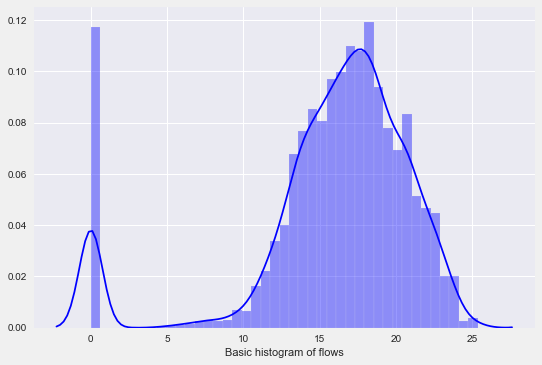
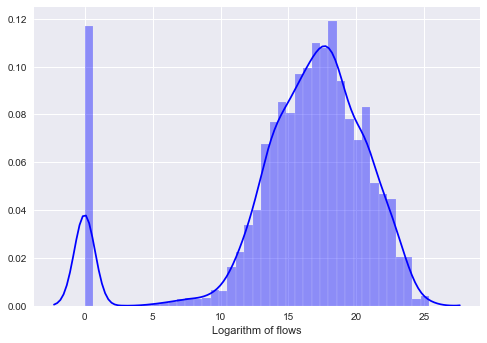
Correct  PPML added, PPML part added, NN adjusted
# Working version of PPML added
# NN adjusted to save non standardized values
# Desciption of one histogram changed
# Report  modified but fucked up, not compiled.

diff --git a/Neural_net/Neural_net_210219.py b/Neural_net/Neural_net_210219.py
@@ -52,8 +52,8 @@ plt.style.use("seaborn")
 init_notebook_mode(connected=True)
 
 # Path specifiation
-path = "/Users/miktus/Documents/PSE/Trade policy/Model/"
-# path = "C:/Repo/Trade/Trade-policy/"
+#path = "/Users/miktus/Documents/PSE/Trade policy/Model/"
+path = "C:/Repo/Trade/Trade-policy/"
 
 # Import data
 
@@ -117,6 +117,55 @@ data.drop(columns=['iso2_d', 'iso2_o'], inplace=True)
 
 data = data.query("rt3ISO == 'POL'")
 
+# Summary statistics table
+values = pd.DataFrame(data.nunique(0), columns=["count"])
+values["column"] = values.index
+keep = values["column"].loc[values["count"] > 1]
+data = data[data.columns.intersection(list(keep.append(pd.Series(["rt3ISO"]))))]
+values = pd.DataFrame(data.nunique(0), columns=["count"])
+values["column"] = values.index
+discrete = values["column"].loc[values["count"] <= 10]
+continues = values["column"].loc[values["count"] > 10]
+continues = pd.DataFrame(data[data.columns.intersection(list(continues.drop(["pt3ISO", "yr"])))].describe(include='all').transpose())
+continues["Description"] = ["Total value of trade between reporting and partner countries",
+                            "Weighted bilateral distance between reporting and partner countries in kilometer (population weighted)",
+                            "Population of reporting country, total in million",
+                            "Population of partner country, total in million",
+                            "GDP of reporting country (current US$)",
+                            "GDP of partner country (current US$)",
+                            "GDP per capita of reporting country (current US$)",
+                            "GDP per capita of partner country (current US$)",
+                            "Area of partner country in sq. kilometers",
+                            "Time difference between reporting and partner countries, in number of hours. For countries which stretch over more than  one  time  zone,  the  respective  time  zone  is generated via the mean of all its time zones (for instance: Russia, Canada, USA)",
+                            "Religious proximity (Disdier and Mayer, 2007) is an index calculated by adding the productsof the shares of Catholics, Protestants and Muslims in the exporting and importing countries. It is bounded between 0 and 1, and is maximum if the country pair has a religion which (1) comprises a vast majority of the population, and (2) is the same in both countries. Source of religion shares: LaPorta, Lopez-de-Silanes, Shleiferand Vishny(1999), completed with the CIA world factbook"]
+
+# Final table for continues variables
+pd.DataFrame(continues[continues.columns.drop(["count"])]).style.format({'total_amt_usd_pct_diff': "{:.2%}"})
+
+discrete = pd.DataFrame(data[data.columns.intersection(list(discrete.append(pd.Series(["yr", "pt3ISO"]))))]).apply(lambda r: pd.Series({'Count': r.nunique(), 'Most Common Value': str(mode(r)[0]).replace("[", "").replace("]", "").replace(".", "")})).transpose()
+discrete["Description"] = ["Year",
+                           "Standard ISO code for reporting country (three letters)",
+                           "Standard ISO code for partner country (three letters)",
+                           "Dummy for contiguity",
+                           "Dummy if parter country is current or former hegemon of origin",
+                           "Dummy for reporting and partner countries colonial relationship post 1945",
+                           "Dummy for reporting and partner countries ever in colonial relationship",
+                           "Dummy for reporting and partner countries ever in sibling relationship, i.e. two colonies of the same empire",
+                           "Dummy if reporting and partner countries share common legal origins before transition",
+                           "Dummy if reporting and partner countries share common legal origins after transition",
+                           "Dummy if common legal origin changed since transition",
+                           "Legal system of partner country before transition. This variable takes the values: “fr” for French, “ge” for German, “sc” for Scandinavian, “so” for Socialist and “uk” for British legal origin.",
+                           "Legal system of partner country after transition. This variable takes the values: “fr” for French, “ge” for German, “sc” for Scandinavian, “so” for Socialist and “uk” for British legal origin.",
+                           "Dummy if partner country is GATT/WTO member",
+                           "Dummy for Regional Trade Agreement",
+                           "Dummy for ACP country exporting to EC/EU member",
+                           "Dummy if origin is donator in Generalized System of Preferences (GSP)",
+                           "Report changes in Rose’s data on <gsp_o_d>. No gsp recorded in Rose; Data directly from Rose; Changes in data from Rose; Assumption that gsp continues after 1999",
+                           "Dummy if reporting country a member of the European Union",
+                           "Dummy if partner country a member of the European Union"]
+
+discrete.index
+
 # Numeric variables
 
 data_numeric = data._get_numeric_data()
@@ -172,7 +221,7 @@ if visualise_all:
 
 # Histogram of flows over the history
 
-hist_all = sns.distplot(np.log(data["Trade_value_total"] + 1), axlabel="Basic histogram of flows", color="blue")
+hist_all = sns.distplot(np.log(data["Trade_value_total"] + 1), axlabel="Logarithm of flows", color="blue")
 
 
 hist_all.figure.savefig('Histogram of flows over the history.png', bbox_inches="tight")
@@ -205,56 +254,20 @@ pairplot = sns.pairplot(data_pairplot, vars=["Trade_value_total", "distw", "gdp_
                         plot_kws=dict(s=50, edgecolor="blue", linewidth=1),  diag_kws=dict(shade=True,  color="blue"))
 pairplot.savefig('Pairplots.png', bbox_inches="tight")
 
+# Save copy of nostandardized dataset
+data_nonstandardized  = data
 
-# Summary statistics table
-values = pd.DataFrame(data.nunique(0), columns=["count"])
-values["column"] = values.index
-keep = values["column"].loc[values["count"] > 1]
-data = data[data.columns.intersection(list(keep.append(pd.Series(["rt3ISO"]))))]
-values = pd.DataFrame(data.nunique(0), columns=["count"])
-values["column"] = values.index
-discrete = values["column"].loc[values["count"] <= 10]
-continues = values["column"].loc[values["count"] > 10]
-continues = pd.DataFrame(data[data.columns.intersection(list(continues.drop(["pt3ISO", "yr"])))].describe(include='all').transpose())
-continues["Description"] = ["Total value of trade between reporting and partner countries",
-                            "Weighted bilateral distance between reporting and partner countries in kilometer (population weighted)",
-                            "Population of reporting country, total in million",
-                            "Population of partner country, total in million",
-                            "GDP of reporting country (current US$)",
-                            "GDP of partner country (current US$)",
-                            "GDP per capita of reporting country (current US$)",
-                            "GDP per capita of partner country (current US$)",
-                            "Area of partner country in sq. kilometers",
-                            "Time difference between reporting and partner countries, in number of hours. For countries which stretch over more than  one  time  zone,  the  respective  time  zone  is generated via the mean of all its time zones (for instance: Russia, Canada, USA)",
-                            "Religious proximity (Disdier and Mayer, 2007) is an index calculated by adding the productsof the shares of Catholics, Protestants and Muslims in the exporting and importing countries. It is bounded between 0 and 1, and is maximum if the country pair has a religion which (1) comprises a vast majority of the population, and (2) is the same in both countries. Source of religion shares: LaPorta, Lopez-de-Silanes, Shleiferand Vishny(1999), completed with the CIA world factbook"]
+data_PL_nonstd = data_nonstandardized.query("rt3ISO == 'POL'")
+# data_PL.to_csv("data_PL2.csv")
+data_PL_nonstd["year"] = data_PL_nonstd["yr"]
+data_PL_nonstd.drop('rt3ISO', axis=1, inplace=True)
 
-# Final table for continues variables
-pd.DataFrame(continues[continues.columns.drop(["count"])]).style.format({'total_amt_usd_pct_diff': "{:.2%}"})
+# One hot encoding
+data_PL_nonstd = pd.get_dummies(
+    data_PL_nonstd, columns=["year", "pt3ISO", "legold_d", "legnew_d", "flaggsp_o_d"],
+    prefix=["yr", "pt3ISO", "legold_d", "legnew_d", "flaggsp_o_d"])
 
-discrete = pd.DataFrame(data[data.columns.intersection(list(discrete.append(pd.Series(["yr", "pt3ISO"]))))]).apply(lambda r: pd.Series({'Count': r.nunique(), 'Most Common Value': str(mode(r)[0]).replace("[", "").replace("]", "").replace(".", "")})).transpose()
-discrete["Description"] = ["Year",
-                           "Standard ISO code for reporting country (three letters)",
-                           "Standard ISO code for partner country (three letters)",
-                           "Dummy for contiguity",
-                           "Dummy if parter country is current or former hegemon of origin",
-                           "Dummy for reporting and partner countries colonial relationship post 1945",
-                           "Dummy for reporting and partner countries ever in colonial relationship",
-                           "Dummy for reporting and partner countries ever in sibling relationship, i.e. two colonies of the same empire",
-                           "Dummy if reporting and partner countries share common legal origins before transition",
-                           "Dummy if reporting and partner countries share common legal origins after transition",
-                           "Dummy if common legal origin changed since transition",
-                           "Legal system of partner country before transition. This variable takes the values: “fr” for French, “ge” for German, “sc” for Scandinavian, “so” for Socialist and “uk” for British legal origin.",
-                           "Legal system of partner country after transition. This variable takes the values: “fr” for French, “ge” for German, “sc” for Scandinavian, “so” for Socialist and “uk” for British legal origin.",
-                           "Dummy if partner country is GATT/WTO member",
-                           "Dummy for Regional Trade Agreement",
-                           "Dummy for ACP country exporting to EC/EU member",
-                           "Dummy if origin is donator in Generalized System of Preferences (GSP)",
-                           "Report changes in Rose’s data on <gsp_o_d>. No gsp recorded in Rose; Data directly from Rose; Changes in data from Rose; Assumption that gsp continues after 1999",
-                           "Dummy if reporting country a member of the European Union",
-                           "Dummy if partner country a member of the European Union"]
-
-discrete.index
-
+data_PL_nonstd.to_csv("data_PL.csv")
 
 # Normalization
 minmax_normalized_df = pd.DataFrame(MinMaxScaler().fit_transform(data_numeric),
@@ -266,13 +279,12 @@ standardized_df = pd.DataFrame(StandardScaler().fit_transform(data_numeric), col
 ecdf_normalized_df = data_numeric.apply(
     lambda c: pd.Series(ECDF(c)(c), index=c.index))
 
-# Replace data by its standardized values
-
-data[list(ecdf_normalized_df.columns.values)] = ecdf_normalized_df
+# Continue with standardized data for neural network
+data[list(standardized_df.columns.values)] = standardized_df
 
 
 # Heatmap
-corr = ecdf_normalized_df.corr()
+corr = standardized_df.corr()
 heat = sns.heatmap(corr[(corr >= 0.3) | (corr <= -0.3)],
                    cmap='viridis', vmax=1.0, vmin=-1.0, linewidths=0.05,
                    annot=True, annot_kws={"size": 5}, square=True)
@@ -331,7 +343,7 @@ fig = dict(data=flow_directions, layout=layout)
 plot(fig, filename='Flows map')
 
 
-# Select only POL as rt3ISO (done twice but does not hurt)
+# Select only POL as rt3ISO
 data_PL = data.query("rt3ISO == 'POL'")
 # data_PL.to_csv("data_PL2.csv")
 data_PL["year"] = data_PL["yr"]
@@ -347,7 +359,6 @@ data_PL = pd.get_dummies(
 #    data_PL, columns=["year", "pt3ISO", "legold_o", "legold_d", "legnew_o", "legnew_d", "flaggsp_o_d", "flaggsp_d_d"],
 #    prefix=["yr", "pt3ISO", "legold_o", "legold_d", "legnew_o", "legnew_d", "flaggsp_o_d", "flaggsp_d_d"])
 
-data_PL.to_csv("data_PL.csv")
 # Splitting the data
 
 # train_size = 0.9

diff --git a/Report/Trade.tex b/Report/Trade.tex
@@ -148,10 +148,14 @@ The paper is organized as follows: the first chapter consists of the brief liter
 \chapter{Literature review}
 
 The traditional gravity model was developed in the 1960s to explain factory-to-consumer trade (\citet{tinbergen1962analysis}). The above-mentioned concept was at the heart of the first clear microfoundations of the gravity equation – the seminal \citet{anderson1979theoretical}, proposing a theoretical explanation of the gravity equation based on constant elasticity of substitution preferences of nations producing a single differentiated product. In parallel, the monopolistic competition versions were introduced (\citet{krugman1980scale}, \citet{bergstrand1985gravity}), followed by the work of \citet{anderson2003gravity}, expanding appropriate econometric techniques and introducing the microeconomic framework to the previously promoted monopolistic competition. Subsequent theoretical refinements have further focused on showing that the gravity equation can be derived from trade models with heterogeneous firms (\citet{helpman2008estimating}).
+\textcolor{red}{Modified and added part}
 
-Simultaneously, the estimation techniques were progressing, starting from the basic least square estimator and its correspondent panel data version, meaning the fixed effect estimator. The endogeneity issues guided to the establishment of instrumental variables and two step least squares methodologies in the gravity models framework. Nevertheless, all the above-mentioned techniques leaded to the potentially biased results due to the requirement of elimination of the zero trade flows, Therefore, the Poisson Pseudo-Maximum Likelihood model, as well as zero-inflated negative binomial models were proposed and over the years became the flagship framework for the bilateral trade flows estimation.
+\text
 
-\textcolor{red}{HERE GOES THE POISSON SHORT DESCRIPTION AND ONE SENTENCE ABOUT FE}
+Simultaneously, the estimation techniques were progressing, starting from the basic least square estimator and its correspondent panel data version, meaning the fixed effect estimator. The endogeneity issues guided to the establishment of instrumental variables and two step least squares methodologies in the gravity models framework. Therefore, the Poisson Pseudo-Maximum Likelihood (PPML) model, introduced by \citet{santos2006ppml}, as well as zero-inﬂated models were proposed solving the mentioned problem. Over the years they became the ﬂagship framework for the bilateral trade ﬂows estimation with some dominance of PPML due to its statistical properties, namely its robustness to different forms of heteroskedasticity.
+
+However, this advantage was criticized later over the years by \citet{martin2008gravity} who admit that PPML estimator is less biased than formerly used methods, but on the other hand argue that it does not fully resolve this issue. This view was further supported by \citet{martinez2013gravity} who also compares this estimator within a family of GLS models arguing that the appropriate estimation method should be chosen with a greater caution. Nevertheless,  this work refers to the Poisson Pseudo-Maximum Likelihood model as one of the best suited solutions. Eventually, despite of some limitations, with some extensions this method still remains frequently used especially in the context of bilateral trade flows.
+
 
 \chapter{Data exploration}
 
